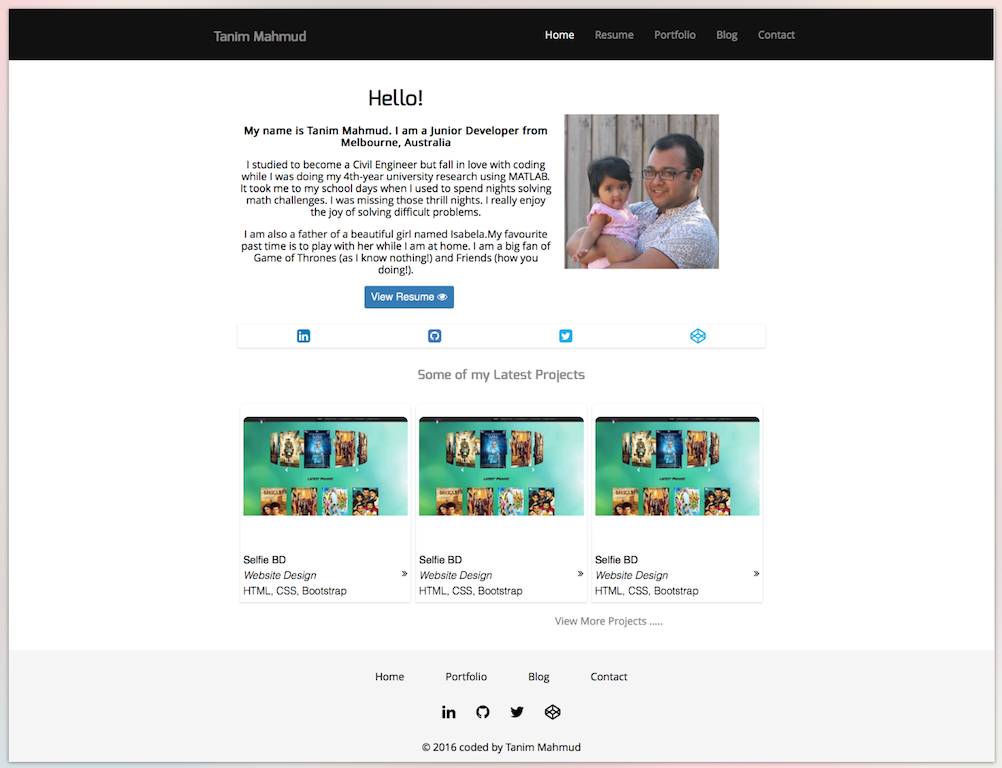
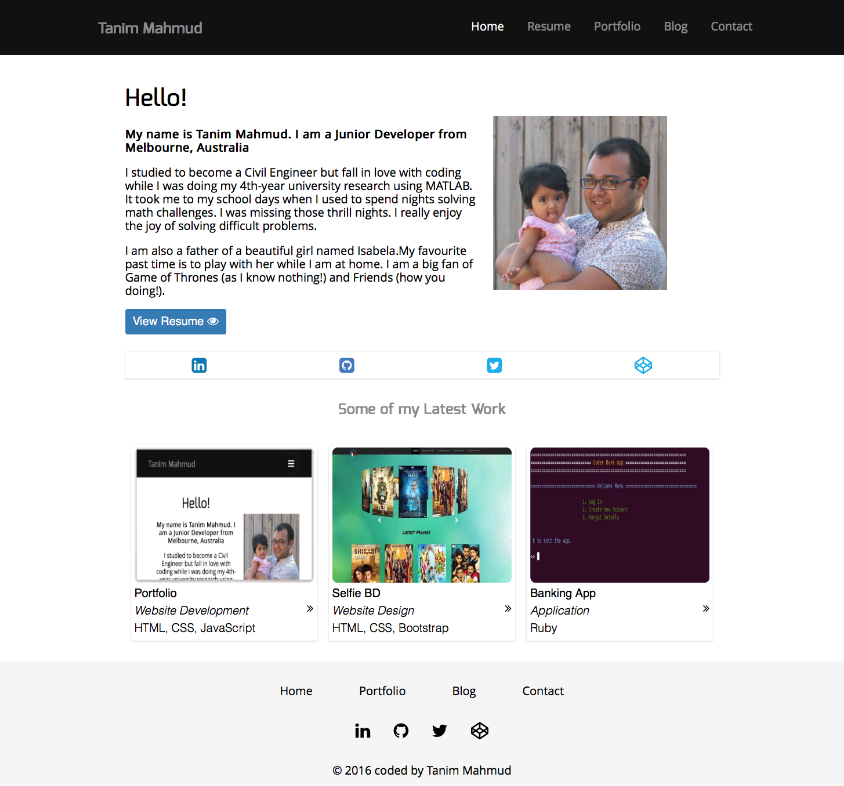
Edit profile margin

diff --git a/css/navigation.css b/css/navigation.css
@@ -162,15 +162,15 @@ button.view_resume {
 }
 
 figure {
-  margin: 5px;
+  margin: 10px;
   padding: 5px;
   border: 1px solid #fff;
   border-top-right-radius: 10px;
   border-top-left-radius: 10px;
   box-shadow: 0px 1px 3px 0px rgba(0, 0, 0, 0.2);
   width: 80%;
-  margin-left: auto;
-  margin-right: auto;
+  /*margin-left: auto;
+  margin-right: auto;*/
 }
 
 figcaption p {

diff --git a/readme.md b/readme.md
@@ -2,7 +2,7 @@
 
 ## Aim
 
-My aim was to develop a clean accessible website for prospective employers and fellow developers. I used bigger font size and black and white color combinations for accessible reasons. I tried to create a simple website with no fancy animation or parallax because it suits me better. I decided to go with different html and css file for each page because it is easy to debug and as I used Jekyll, it helped me organize my files and folders.
+My aim was to develop a clean accessible website for prospective employers and fellow developers. I used bigger font size and black and white color combinations for accessible reasons. I tried to create a simple website with no fancy animation or parallax because it suits me better. I decided to go with different html and css file for each page because it is easy to debug and as I used Jekyll, it helped me to organize my files and folders.
 
 ### Home
 
